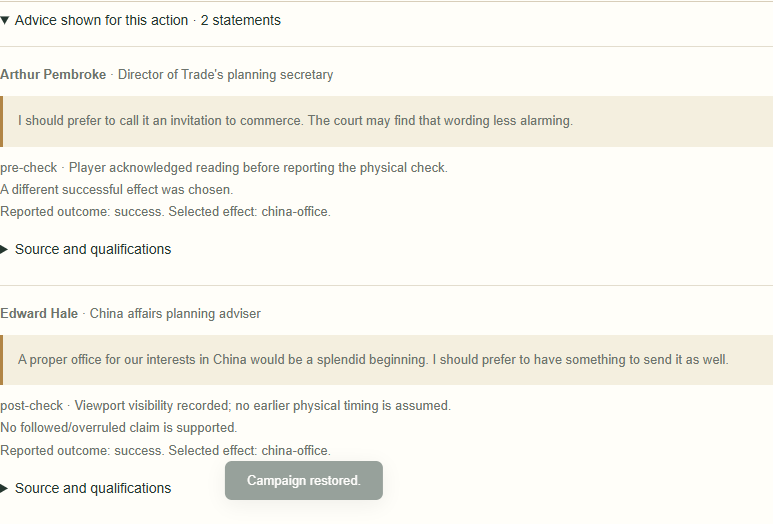
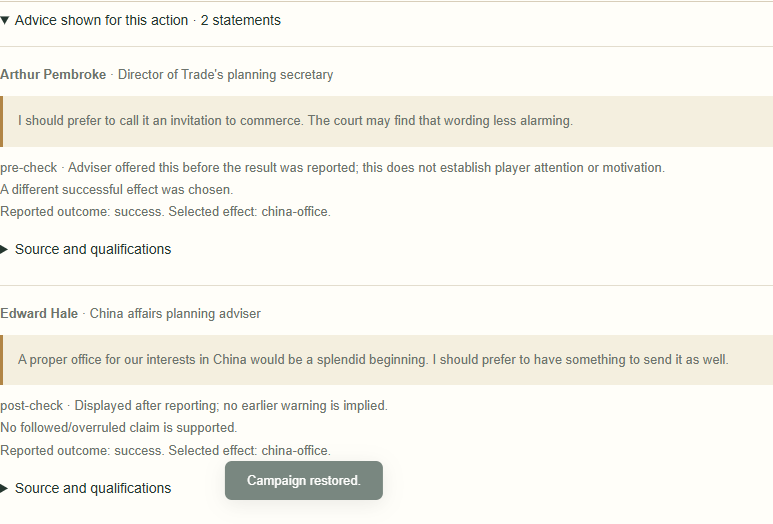
docs(narrative): record final render-phase evidence checks and review examples

Changed region(s): [[0.2794, 0.855, 0.4968, 0.9771], [0.0931, 0.3053, 0.8693, 0.3359], [0.0931, 0.7634, 0.5899, 0.7939]]

diff --git a/dist/action-dialogs.js b/dist/action-dialogs.js
@@ -221,4 +221,3 @@ export function openGameActions({state,showDialog,apply,esc,start,onPhase,onProg
  else if(start){if(start==='blackmail-menu')blackmail();else if(start==='parliament-menu')parliament();else if(typeof start==='string')startForm(start);else startForm(start.type,start);}
  else menu();
 }
-

diff --git a/dist/deploy.js b/dist/deploy.js
@@ -48,4 +48,3 @@ export function openDeployment({state,showDialog,apply,esc,targetRegion=null,arm
  }
  draw();
 }
-

diff --git a/docs/narrative/collection09d1-implementation.md b/docs/narrative/collection09d1-implementation.md
@@ -1,10 +1,10 @@
 # Collection 09D-1 — committed advice and immediate outcome reactions
 
-Implemented 25 October 2026 on the accepted 09C-2 baseline (`d0b65e3`, pulled before editing). Scope is 09D-1 only. Implementation commit: `68b858a2cb1105e0968a1f3b7a49fab5d069af8e`. The following documentation commit contains this report, the small demonstration and verification record; obtain its hash with `git log -1 -- docs/narrative/collection09d1-implementation.md` (a commit cannot contain its own hash).
+Implemented 25 October 2026 on the accepted 09C-2 baseline (`d0b65e3`, pulled before editing). Scope is 09D-1 only. Initial implementation commit: `68b858a2cb1105e0968a1f3b7a49fab5d069af8e`; render-phase UX alignment: `1a948c44d1da92aa94a566d76ad3b79c7171c2f0`. Initial report/demo commit: `21eba4b`. The concurrent approved UX notes through `40e7026` were merged without replacing history. The following documentation commit contains this report, the small demonstration and verification record; obtain its hash with `git log -1 -- docs/narrative/collection09d1-implementation.md` (a commit cannot contain its own hash).
 
 ## Lifecycle and timing
 
-09C-2 previews are still deterministic and ephemeral. A dialog-local observer verifies the rendered speaker and exact quote, then records actual viewport visibility. This is insufficient to prove physical-roll timing: players can open an action after rolling. The optional **I read this before the physical check** button therefore supplies explicit player attestation. It is never required to proceed and disappears after reporting. It does not validate or change the physical check.
+09C-2 previews are still deterministic and ephemeral. A dialog-local observer verifies the rendered speaker, exact quote and actual viewport visibility. Under the approved companion-not-tutorial contract, rendering counsel in the real pre-result UI stage establishes that the fictional adviser offered it. It does **not** certify human attention, motivation or when a physical table roll occurred. No reading checkbox, acknowledgement button or extra reporting step is added. The initial local implementation used an optional attestation; it was removed after merging the concurrent approved UX direction, before delivery.
 
 | Action | Advice display | Report boundary | Authoritative commit |
 | --- | --- | --- | --- |
@@ -12,9 +12,9 @@ Implemented 25 October 2026 on the accepted 09C-2 baseline (`d0b65e3`, pulled be
 | Special Envoy | Provisional intended effect/Indian order | First reported physical outcome freezes the original intention | Final Confirm & apply after the legally revisable successful effect |
 | Governor | Optional Plan Administer, existing regional assistant | Actual Tax or Unsuccessful Administer reporting button | Final Confirm & apply of the supported resolver result |
 
-Acknowledged words before that boundary are `pre-check`; merely visible earlier words are `pre-commit` with unknown physical timing; newly shown words after it are `post-check`. Back/reopening within an attempt cannot upgrade later speech to earlier advice. Re-reporting a corrected outcome changes the result, not the initial temporal boundary. Earlier exploratory plans are discarded when reporting; abandoned Deploy targets are discarded before binding. A paired exchange commits only when both exact statements were delivered. Cancellation saves nothing.
+Words actually rendered before that report boundary are `pre-check` with `rendered-before-report` provenance; newly shown words afterwards are `post-check`. The saved phase describes the companion's actual display/report sequence, not proof of reading. Existing timing-uncertain `pre-commit` records, if present in a current-schema frame, retain their wording and cannot become earlier warnings. Back/reopening within an attempt cannot upgrade later speech to earlier advice. Re-reporting a corrected outcome changes the result, not the initial temporal boundary. Earlier exploratory plans are discarded when reporting; abandoned Deploy targets are discarded before binding. A paired exchange commits only when both exact statements were delivered. Cancellation saves nothing.
 
-An Indian recommendation genuinely acknowledged before a successful Envoy check survives a later China choice. A China comment displayed afterwards remains post-check. Failed flexible checks have `no-choice-on-failure`, never an ignored recommendation. Conditional caution is not opposition, and qualified support does not become a promise of victory.
+An Indian recommendation genuinely displayed before a successful Envoy report survives a later China choice. A China comment first displayed afterwards remains post-check. Failed flexible checks have `no-choice-on-failure`, never an ignored recommendation. Conditional caution is not opposition, and qualified support does not become a promise of victory. No player motivation is inferred.
 
 The existing protected progress store accepts revealed events and saved app dice, not unconfirmed Deploy/Envoy/Governor physical reports. This remains unchanged: closing/reloading those uncommitted dialogs discards their ephemeral advice and attempt. Existing protected pending events, physical-instruction acknowledgement cursors and saved dice retain their original resume behavior.
 
@@ -56,17 +56,17 @@ Prior `09D-governor-overruled` remains withheld for the same effect/evidence gap
 ## Verification and review
 
 - **339 automated tests pass, 0 fail** (`npm test`; baseline 315). Twenty-four new tests cover exact wording/counts, all Army outcome/stance combinations, qualification preservation, two speakers, invisible/cancelled/post-report/changed-target cases, both Envoy switch directions and failures, supported Governor outcomes, idempotency, persistence/Undo/Redo, old current-schema campaigns, hidden permutations, narrative-on/off mechanical/RNG equivalence, tampered evidence and later debug/General changes.
-- New regular/debug browser suite at **1440×900** and **1024×768**, Chrome **156.0.8078.47**: acknowledged and unknown timing, exact committed success/failure/catastrophe reactions, paired exchange, cancellation/target changes, post-success Envoy revision, Governor Tax/failure, reload/Undo/Redo, JSON export/import, real snapshot restore and readable chronicle. No page errors or horizontal page/dialog overflow. Screenshots visually inspected.
+- New regular/debug browser suite at **1440×900** and **1024×768**, Chrome **156.0.8078.47**: pre-result and post-result display timing, exact committed success/failure/catastrophe reactions, paired exchange, cancellation/target changes, post-success Envoy revision, Governor Tax/failure, reload/Undo/Redo, JSON export/import, real snapshot restore and readable chronicle. No page errors or horizontal page/dialog overflow. Screenshots visually inspected.
 - Existing counsel, Operations, M2, outlook/actual-Shuffle and trade browser suites pass. These preserve all three Army launch paths, physical instructions, legal targets, current saves, protected reveal/roll/instruction progress, regular/debug separation, prior callbacks and outlooks. Additional existing-suite viewports: **1440×1000**, **390×844**.
 - Browser test development initially attempted to reopen Delhi after conquest and an Army after catastrophe; those are correctly unavailable. The test was corrected to respect actual legal state. Final suites pass without bypassing disabled controls.
-- [Small reproducible demonstration](collection09d1-demo.md): support/victory, warning/catastrophe, pre-check India to post-check China, and an attractive earlier-prediction response correctly withheld for uncertain timing. Recreate with `node scripts/export-advice-demo.mjs`. Synthetic profiles, manual physical result inputs and timing attestations are explicitly labelled. [Verification record](collection09d1-verification.json).
+- [Small reproducible demonstration](collection09d1-demo.md): support/victory, warning/catastrophe, pre-check India to post-check China, and an attractive earlier-prediction response correctly withheld because the quote was first displayed after reporting. Recreate with `node scripts/export-advice-demo.mjs`. Synthetic profiles, manual physical result inputs are explicitly labelled. [Verification record](collection09d1-verification.json).
 
-![Optional acknowledgement on tablet](review/collection09d1/pre-check-tablet.png)
+![Planning counsel without an extra acknowledgement](review/collection09d1/pre-check-tablet.png)
 
 ![Original and later advice retained separately](review/collection09d1/committed-advice-tablet.png)
 
 ## Limits and later work
 
-Physical pre-check timing relies on explicit player attestation; automatic visibility cannot prove when a table roll occurred. No attestation means no retrospective Deploy warning/support or followed/overruled claim. Some eligible routine actions may have no advice-linked response. Scene placement remains as before for 09D-2. Long-term reputations, selective recollection, rivalries and recurring advice callbacks remain 09D-3. Governor Regiment/Ship outcomes, China shipments/proceeds and total Army inventory are still untracked. No new characters, fictional text, mechanics, portraits, migrations or hosted Site deployment.
+The stored pre-check label identifies actual pre-result rendering; it does not prove the human read the quote or rolled afterwards. New speech after reporting cannot support an earlier-warning claim. No human motivation or deliberate rejection is inferred. Some eligible routine actions may have no advice-linked response. Scene placement remains as before for 09D-2. Long-term reputations, selective recollection, rivalries and recurring advice callbacks remain 09D-3. Governor Regiment/Ship outcomes, China shipments/proceeds and total Army inventory are still untracked. No new characters, fictional text, mechanics, portraits, migrations or hosted Site deployment.
 
 Authored wording is approved; passing tests establishes technical integration, **not final creative acceptance** of selection/pacing. User and ChatGPT retain that review.

diff --git a/docs/narrative/collection09d1-demo.md b/docs/narrative/collection09d1-demo.md
@@ -1,6 +1,6 @@
 # Collection 09D-1 — small review demonstration
 
-Synthetic isolated campaigns with explicitly configured personalities. Reported physical outcomes and reading acknowledgements are manual test inputs; authoritative consequences come from the real resolvers. This demonstrates integration, not creative acceptance.
+Synthetic isolated campaigns with explicitly configured personalities. Reported physical outcomes are manual test inputs; authoritative consequences come from the real resolvers. This demonstrates integration, not creative acceptance.
 
 ## Support, committed victory
 
@@ -8,7 +8,7 @@ Synthetic isolated campaigns with explicitly configured personalities. Reported 
 
 > If we wait until every neighbour welcomes our arrival, we shall never leave the Presidency.
 
-Source: `09C-army-expansion-hungry`; timing: **pre-check**, player-attested-before-check. Stance: **encourage**; reservations: none explicitly stated.
+Source: `09C-army-expansion-hungry`; timing: **pre-check**, rendered-before-report. Stance: **encourage**; reservations: none explicitly stated.
 
 Committed action: `incident-1`, deploy; target delhi; reported **success**; actual effect null; interpretation **followed**. Evidence: incident-1/fact-0, incident-1/fact-1, incident-1/fact-2, incident-1/fact-3. Public sources: board:delhi, army:bombay.
 
@@ -22,7 +22,7 @@ Committed action: `incident-1`, deploy; target delhi; reported **success**; actu
 
 > This is an unfortunate moment to send our strength in search of further obligations.
 
-Source: `09C-army-known-danger`; timing: **pre-check**, player-attested-before-check. Stance: **discourage**; reservations: an unfortunate moment to send our strength in search of further obligations.
+Source: `09C-army-known-danger`; timing: **pre-check**, rendered-before-report. Stance: **discourage**; reservations: an unfortunate moment to send our strength in search of further obligations.
 
 Committed action: `incident-8`, deploy; target hyderabad; reported **catastrophe**; actual effect null; interpretation **proceeded-despite-warning**. Evidence: incident-8/fact-0. Public sources: board:hyderabad, army:madras, public-crisis-batch.
 
@@ -36,7 +36,7 @@ Committed action: `incident-8`, deploy; target hyderabad; reported **catastrophe
 
 > I should prefer to call it an invitation to commerce. The court may find that wording less alarming.
 
-Source: `09C-envoy-india-diplomat`; timing: **pre-check**, player-attested-before-check. Stance: **prefer-effect**; reservations: The court may find that wording less alarming.
+Source: `09C-envoy-india-diplomat`; timing: **pre-check**, rendered-before-report. Stance: **prefer-effect**; reservations: The court may find that wording less alarming.
 
 Committed action: `incident-1`, envoy; target d3; reported **success**; actual effect {"kind":"china-office"}; interpretation **different-effect**. Evidence: committed incident input/result (no regional fact; no additional event invented). Public sources: closed-order:d3.
 
@@ -56,16 +56,16 @@ Committed action: `incident-1`, envoy; target china-office; reported **success**
 
 > There is now an office. I shall not mistake its existence for a successful voyage.
 
-## Same support without verified pre-check timing
+## Same support first displayed after reporting
 
 **Edward Avery** (army-bombay; army:bombay)
 
 > If we wait until every neighbour welcomes our arrival, we shall never leave the Presidency.
 
-Source: `09C-army-expansion-hungry`; timing: **pre-commit**, viewport-visible. Stance: **encourage**; reservations: none explicitly stated.
+Source: `09C-army-expansion-hungry`; timing: **post-check**, viewport-visible. Stance: **encourage**; reservations: none explicitly stated.
 
 Committed action: `incident-1`, deploy; target delhi; reported **success**; actual effect null; interpretation **not-applicable/unknown**. Evidence: incident-1/fact-0, incident-1/fact-1, incident-1/fact-2, incident-1/fact-3. Public sources: board:delhi, army:bombay.
 
 **No advice-linked reaction:** the required retrospective evidence is absent.
 
-The last example deliberately withholds the appealing “supported victory” reaction: visible text alone does not prove it preceded the physical check. Cancelled or abandoned target previews produce no committed statements. Governor Regiment/Ship and alternative-effect claims remain withheld because their actual successful effects are not recorded.
+The last example deliberately withholds the appealing “supported victory” reaction: its actual render phase is after the reported result. Cancelled or abandoned target previews produce no committed statements. Governor Regiment/Ship and alternative-effect claims remain withheld because their actual successful effects are not recorded.

diff --git a/docs/current-status.md b/docs/current-status.md
@@ -189,10 +189,10 @@ Following review of completed 09C-2 (Codex reports 315 passing tests, 17 enabled
 
 Implemented on the reviewed 09C-2 baseline. Displayed exact advice now binds only to an actual committed Deploy, Special Envoy or supported Governor action. Existing incident/statement/scene storage preserves the real adviser, plan, stance, explicitly stated reservations, temporal provenance, actual outcome and exact immediate response. Cancelled/exploratory plans save nothing; paired exchanges retain both actual speakers. No new characters, personal memories, relationship scores, cast/RNG changes or action-resolution relocation.
 
-Physical pre-check timing cannot be inferred from the UI. An **optional reading acknowledgement** supplies explicit player attestation before reporting; unacknowledged visible words remain timing-uncertain, with no manufactured earlier-warning/followed claim. Envoy preserves genuine original Indian/China recommendations when the legal success effect changes after reporting. Failure means no successful choice. Governor General suppresses obsolete roles. Existing protected events/rolls/instruction cursors remain unchanged; uncommitted physical-action dialogs remain ephemeral as before.
+Per the concurrent approved companion-not-tutorial contract, actual pre-result rendering establishes that the fictional adviser offered counsel; it does not prove player attention, motivation or physical-roll timing. **No reading acknowledgement or extra step.** First-displayed post-result words cannot become earlier warnings. Envoy preserves genuine original Indian/China recommendations when the legal success effect changes after reporting. Failure means no successful choice. Governor General suppresses obsolete roles. Existing protected events/rolls/instruction cursors remain unchanged; uncommitted physical-action dialogs remain ephemeral as before.
 
 **15 new 09D-1 lines + 12 applicable prior outcome lines enabled (27 result entries)**, with all exact approved wording retained; existing 17 planning units / 18 spoken lines unchanged. Three new Governor lines remain withheld (`09D1-governor-tax-overruled`, `09D1-governor-regiment-overruled`, `09D1-governor-ship-followed`) because successful Regiment/Ship/alternative effects or their planning facts are unavailable. Prior Governor-overruled, recurring callbacks, unverified opium/Army comparisons and all other unrelated deferrals remain outside scope.
 
 **339 tests pass, 0 fail** (315 baseline + 24 focused regressions). New regular/debug browser checks pass at **1440×900** and **1024×768**, Chrome **156.0.8078.47**, including actual advice/commit outcomes, paired speakers, cancellation, changed targets/effects, reload, Undo/Redo, JSON export/import, snapshot restore and readable chronicles. Existing counsel, Operations, M2, outlook/Shuffle and trade browser checks pass, including protected progress and additional **1440×1000** / **390×844** checks. No page errors or horizontal dialog/page overflow in final checks. No migrations or hosted Site deployment.
 
-Implementation commit: `68b858a2cb1105e0968a1f3b7a49fab5d069af8e`. See [focused implementation report and entry-level limitations](narrative/collection09d1-implementation.md), [small reproducible review demonstration](narrative/collection09d1-demo.md), and [verification record](narrative/collection09d1-verification.json). Exact text is approved; integrated selection/pacing still awaits user/ChatGPT review. 09D-2 relocation and 09D-3 long-term memory/rivalry/callback work remain deferred.
+Implementation commit: `68b858a2cb1105e0968a1f3b7a49fab5d069af8e`; final render-phase alignment: `1a948c44d1da92aa94a566d76ad3b79c7171c2f0` (concurrent approved UX documentation merged through `40e7026`). See [focused implementation report and entry-level limitations](narrative/collection09d1-implementation.md), [small reproducible review demonstration](narrative/collection09d1-demo.md), and [verification record](narrative/collection09d1-verification.json). Exact text is approved; integrated selection/pacing still awaits user/ChatGPT review. 09D-2 relocation and 09D-3 long-term memory/rivalry/callback work remain deferred.

diff --git a/README.md b/README.md
@@ -91,6 +91,6 @@ See the [implementation report](docs/narrative/collection09c2-implementation.md)
 
 ## Collection 09D-1 committed advice
 
-Exact displayed planning words and compatible immediate reactions now save with the actual committed action. An optional reading acknowledgement distinguishes player-attested pre-check advice from uncertain physical timing; cancellation leaves no history. Envoy success remains legally revisable, while failure creates no ignored-choice claim. Standard scenes stay brief, with expandable original advice and dossier/chronicle evidence.
+Exact displayed planning words and compatible immediate reactions now save with the actual committed action. Actual pre-result rendering records when the adviser offered counsel without adding a reading acknowledgement; cancellation leaves no history. Envoy success remains legally revisable, while failure creates no ignored-choice claim. Standard scenes stay brief, with expandable original advice and dossier/chronicle evidence.
 
 See the [implementation and withheld-effect limits](docs/narrative/collection09d1-implementation.md), [small creative-review demonstration](docs/narrative/collection09d1-demo.md) and [verification](docs/narrative/collection09d1-verification.json). 09D-2 relocation and 09D-3 recurring callbacks/rivalries remain deferred. No hosted Site deployment.
